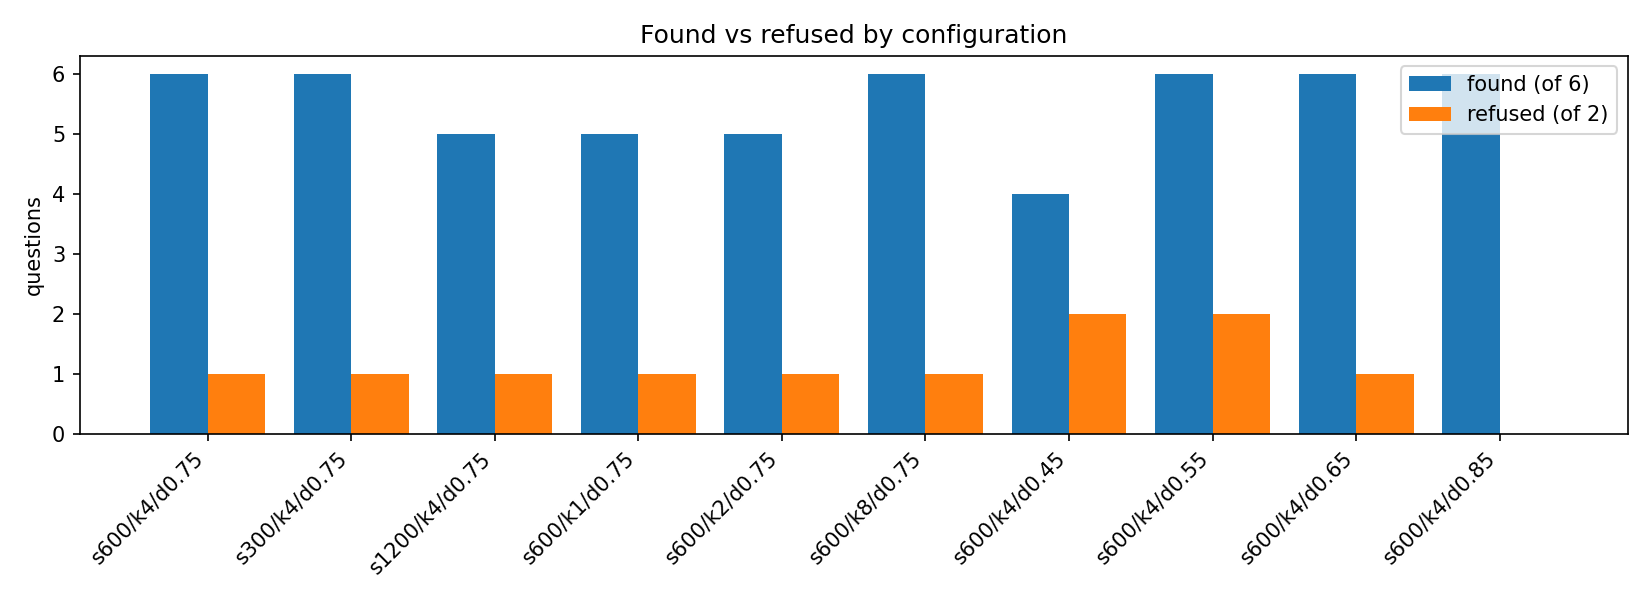
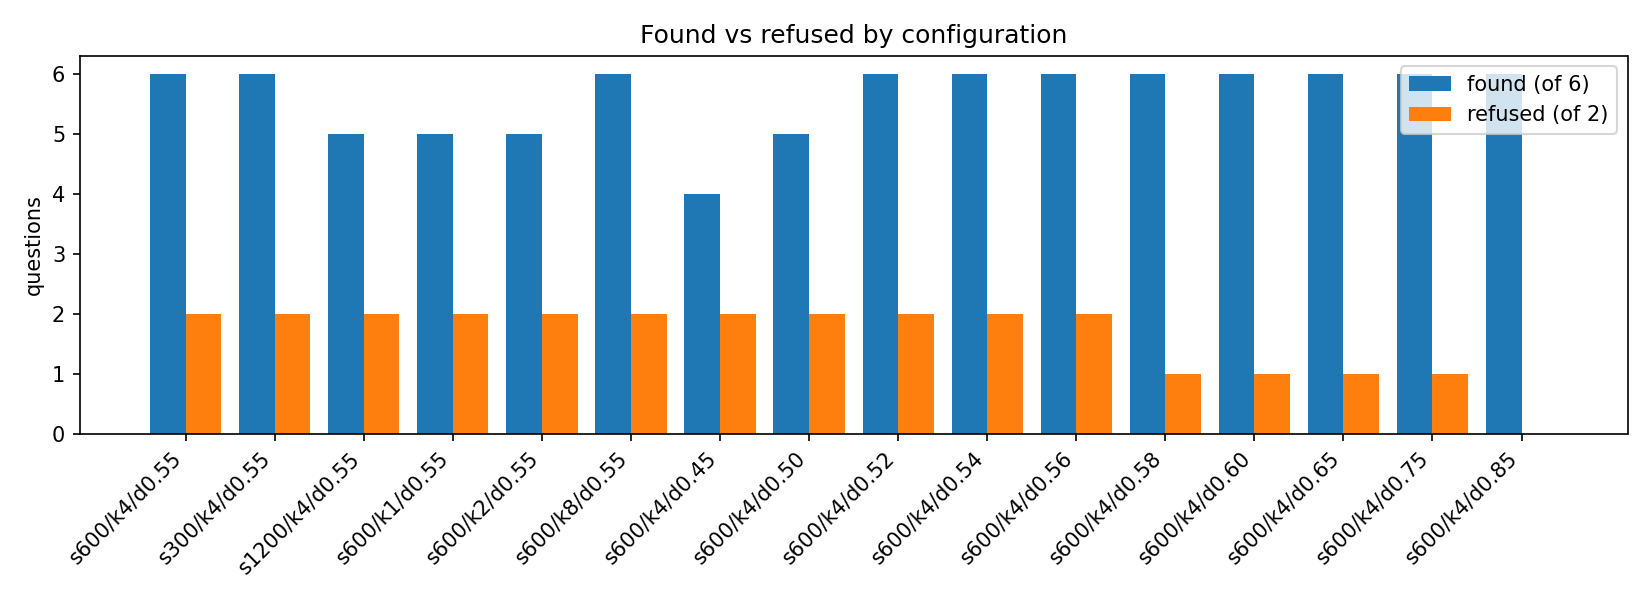
add README

Changed region(s): [[0.0309, 0.12, 0.9273, 0.96], [0.7418, 0.87, 0.7727, 0.93], [0.3091, 0.87, 0.34, 0.93]]

diff --git a/rag_project/README.md b/rag_project/README.md
@@ -1,1 +1,22 @@
-# RAG project
+# RAG Mini Project: Phishing Triage Runbook
+
+This project builds a retrieval-augmented generation (RAG) system from scratch in Python for a fictional company's phishing triage runbook. Five short documents are split into overlapping chunks, embedded locally with all-MiniLM-L6-v2, and stored in ChromaDB using cosine distance. For each question, the system retrieves the closest chunks, drops matches above a distance threshold, and builds a prompt from what remains. If nothing passes the threshold, it refuses to answer. Eight test questions (six answerable, two not, including a ransomware near-miss) were used to run experiments on chunk size, number of chunks retrieved, and distance threshold. The key finding is that the distance threshold matters most: a value of 0.55 was the only tested setting that found all six answers and refused both unanswerable questions. Looser thresholds kept finding answers but stopped refusing.
+
+## Files
+
+- `rag_notebook.ipynb`: the full pipeline, experiments, and chart, with outputs saved
+- `my_kb/`: the five runbook documents and `SOURCES.md`
+- `goldset.json`: the eight test questions with evidence phrases
+- `results.csv`: results of each configuration tested
+- `figure.png`: chart of answers found and refusals held per configuration
+
+## Run it
+
+```bash
+python3 -m venv .venv
+source .venv/bin/activate
+pip install chromadb sentence-transformers pandas matplotlib jupyter nbformat python-dotenv
+jupyter notebook
+```
+
+Open `rag_notebook.ipynb` and choose Kernel > Restart & Run All. No API key is needed. Without one, the generate step prints an offline answer built from the retrieved context.
